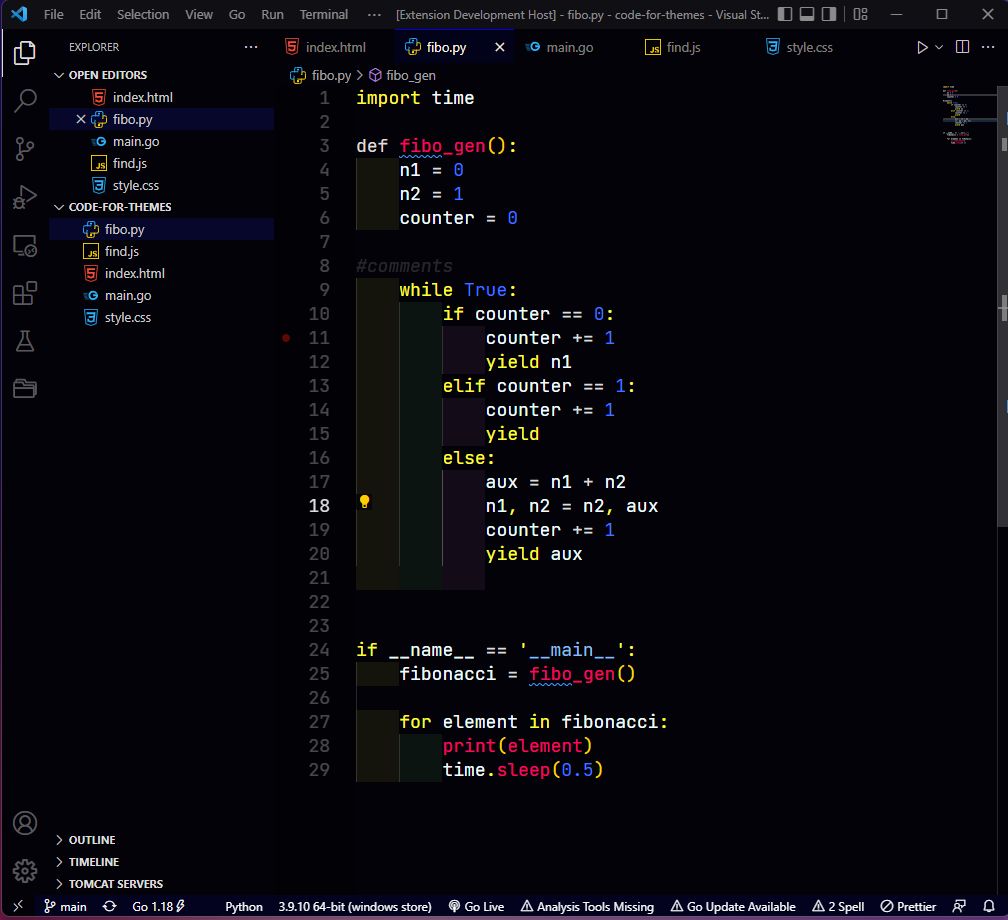
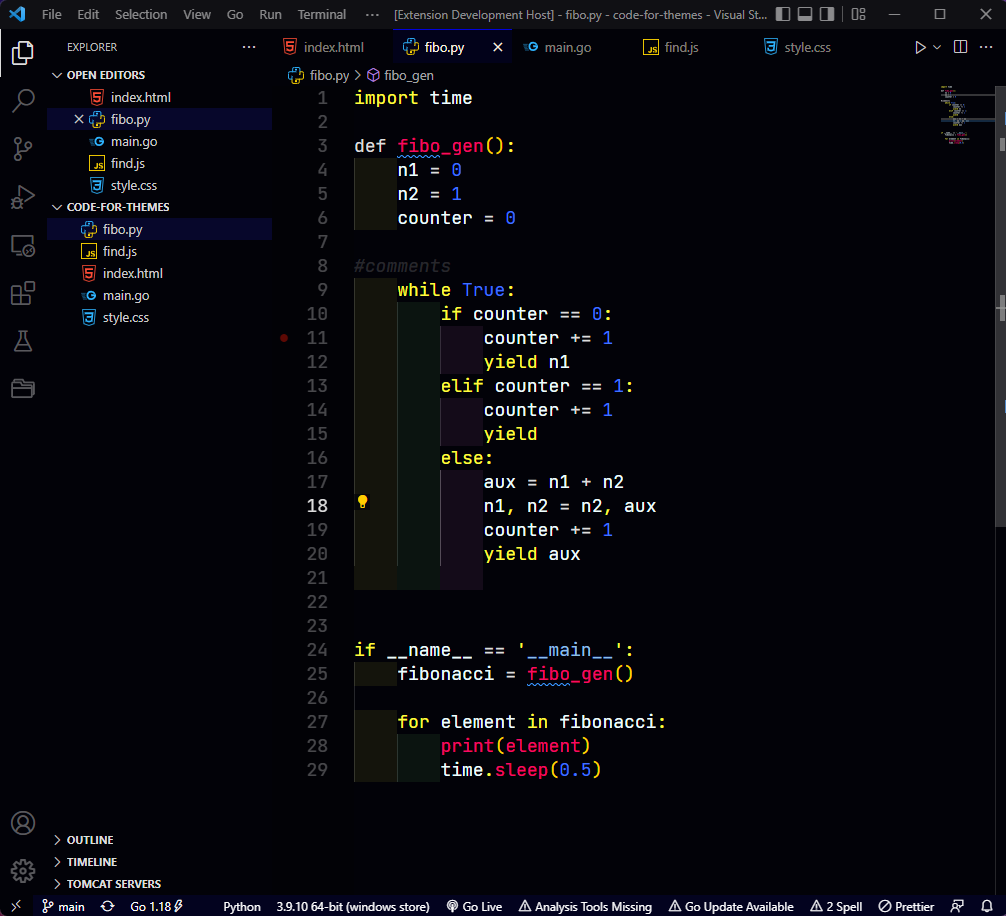
new themes

diff --git a/README.md b/README.md
@@ -2,6 +2,7 @@
 
 Only Dark
 ![This is an Image](https://github.com/yesomac/only_dark/blob/main/only_dark.png?raw=true)
+![This is an Image](https://github.com/yesomac/only_dark/blob/main/only_darkII.png?raw=true)
 
 Only Dark Light
 ![This is an Image](https://github.com/yesomac/only_dark/blob/main/only_dark-light.png?raw=true)
@@ -11,3 +12,6 @@ Only Dark Green
 
 Only Dark BrownOrange
 ![This is an Image](https://github.com/yesomac/only_dark/blob/main/only_darkorange.png?raw=true)
+
+Only Dark BlueHaze
+![This is an Image](https://github.com/yesomac/only_dark/blob/main/only-dark-bluee.png?raw=true)
